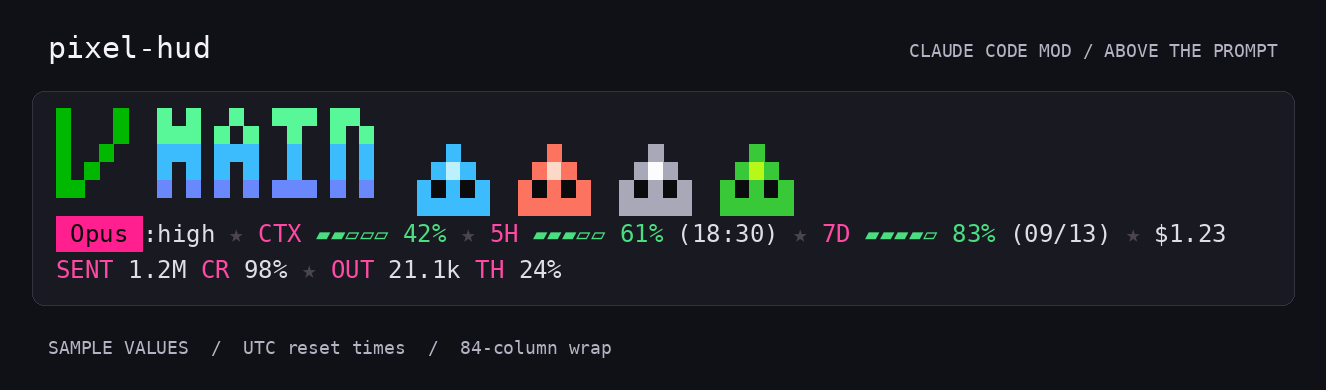
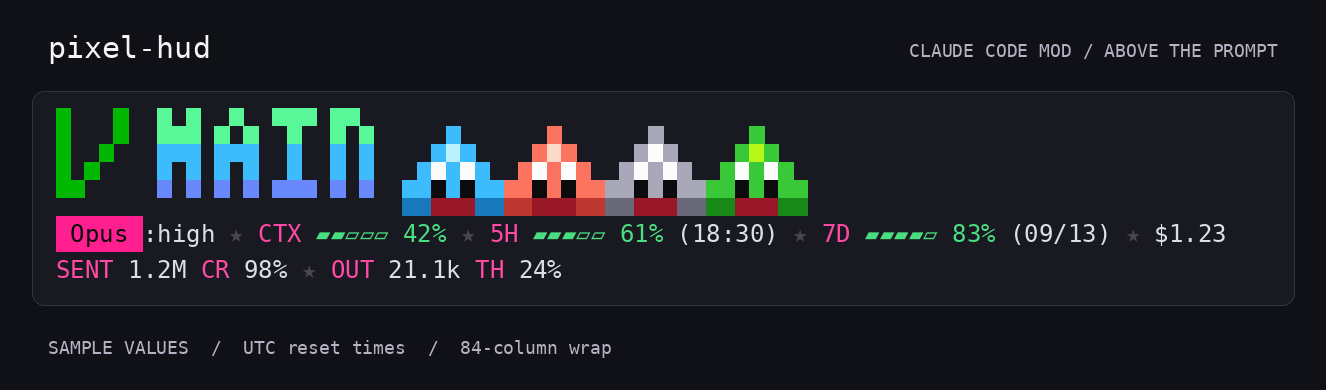
docs(pixel-hud): refresh Dragon Quest slime showcases
Render at FRAME_MS, select the middle of the King reign from phase lengths, and retain one global GIF palette.

Changed region(s): [[0.2783, 0.3077, 0.6184, 0.5538]]

diff --git a/docs/showcase/render_mod.py b/docs/showcase/render_mod.py
@@ -64,9 +64,10 @@ COLUMNS = 84
 
 SHOWCASE_TEST = """
 import { mock, test } from 'claude-code/testing'
-import { KING_SHOW_TICKS } from './slime'
+import { FRAME_MS, KING_GATHER_TICKS, KING_MERGE_TICKS, KING_FLASH_TICKS, KING_REIGN_TICKS, KING_SHOW_TICKS } from './slime'
 
 test('showcase', async ($, on) => {
+  console.log('FRAME_MS' + FRAME_MS)
   on('process.run', async (_$, e) => ({
     value: { exitCode: 0, stdout: e.argv.includes('rev-parse') ? 'main\\n' : '', stderr: '',
              isStdoutTruncated: false, isStderrTruncated: false },
@@ -99,9 +100,9 @@ test('showcase', async ($, on) => {
     ui = await $.ui.mount({ plugin: 'pixel-hud', surface: 'terminal', component: 'AbovePrompt', props })
   }
   if (KING) {
-    // A task of a minute ends; the King Slime reigns some 22 ticks later.
+    // A task of a minute ends; catch the middle of the reign.
     await $.turn.complete({ answer: '', durationMs: 60_000, isAborted: false, turnId: 't', reason: 'answer' })
-    await clock.advance(140 * 22)
+    await clock.advance(FRAME_MS * (KING_GATHER_TICKS + KING_MERGE_TICKS + KING_FLASH_TICKS + Math.floor(KING_REIGN_TICKS / 2)))
     await ui.unmount()
     ui = await $.ui.mount({ plugin: 'pixel-hud', surface: 'terminal', component: 'AbovePrompt', props })
   }
@@ -114,7 +115,7 @@ test('showcase', async ($, on) => {
       await ui.unmount()
       ui = await $.ui.mount({ plugin: 'pixel-hud', surface: 'terminal', component: 'AbovePrompt', props })
       console.log('SHOWCASE' + JSON.stringify(await ui.drawn()))
-      await clock.advance(140)
+      await clock.advance(FRAME_MS)
     }
   } else console.log('SHOWCASE' + JSON.stringify(await ui.drawn()))
   await ui.unmount()
@@ -139,6 +140,7 @@ with tempfile.TemporaryDirectory() as tmp:
     if not found:
         raise SystemExit(f"the mod drew nothing:\n{run.stdout}\n{run.stderr}")
     trees = [json.loads(f) for f in found]
+    frame_ms = int(re.search(r"^FRAME_MS(\d+)$", run.stdout + run.stderr, re.M)[1])
 
 
 INK = "#dedee5"
@@ -234,10 +236,10 @@ if args.gif:
     palette = sheet.quantize(colors=256)
     frames = [frame.quantize(palette=palette, dither=Image.Dither.NONE) for frame in frames]
     # The slimes at rest a moment, then the show at the slimes' own pace.
-    durations = [1200] + [140] * (len(frames) - 2) + [1200]
+    durations = [1200] + [frame_ms] * (len(frames) - 2) + [1200]
     output = HERE / "pixel-hud-king.gif"
     frames[0].save(output, save_all=True, append_images=frames[1:], duration=durations,
-                   loop=0, optimize=True)
+                   loop=0, optimize=False, palette=palette.getpalette())
     width, height = frames[0].size
     print(f"Wrote {output} ({width} x {height}, {len(frames)} frames)")
     raise SystemExit

diff --git a/docs/showcase/README.md b/docs/showcase/README.md
@@ -48,10 +48,11 @@ or newer) besides Pillow and the font:
 ```
 
 The second draws `pixel-hud-king.png`: a task of a minute ends, and the image
-catches the King Slime mid-reign, 22 ticks of the slimes' clock later.
+catches the King Slime halfway through its reign, using the exported phase
+lengths.
 The third draws `pixel-hud-king.gif`, the README's demo: the same task, one
-frame for each tick of the slimes' 140 ms clock, from the slimes at rest through
-the whole show and home again. Pillow folds repeated frames into one.
+frame for each tick of the slimes' exported `FRAME_MS` clock (80 ms), from the
+slimes at rest through the whole show and home again. Pillow folds repeated frames into one.
 
 The script copies the mod to a temporary folder, adds one test that hands it
 the sample figures through Claude Code's own plugin test host, and runs
